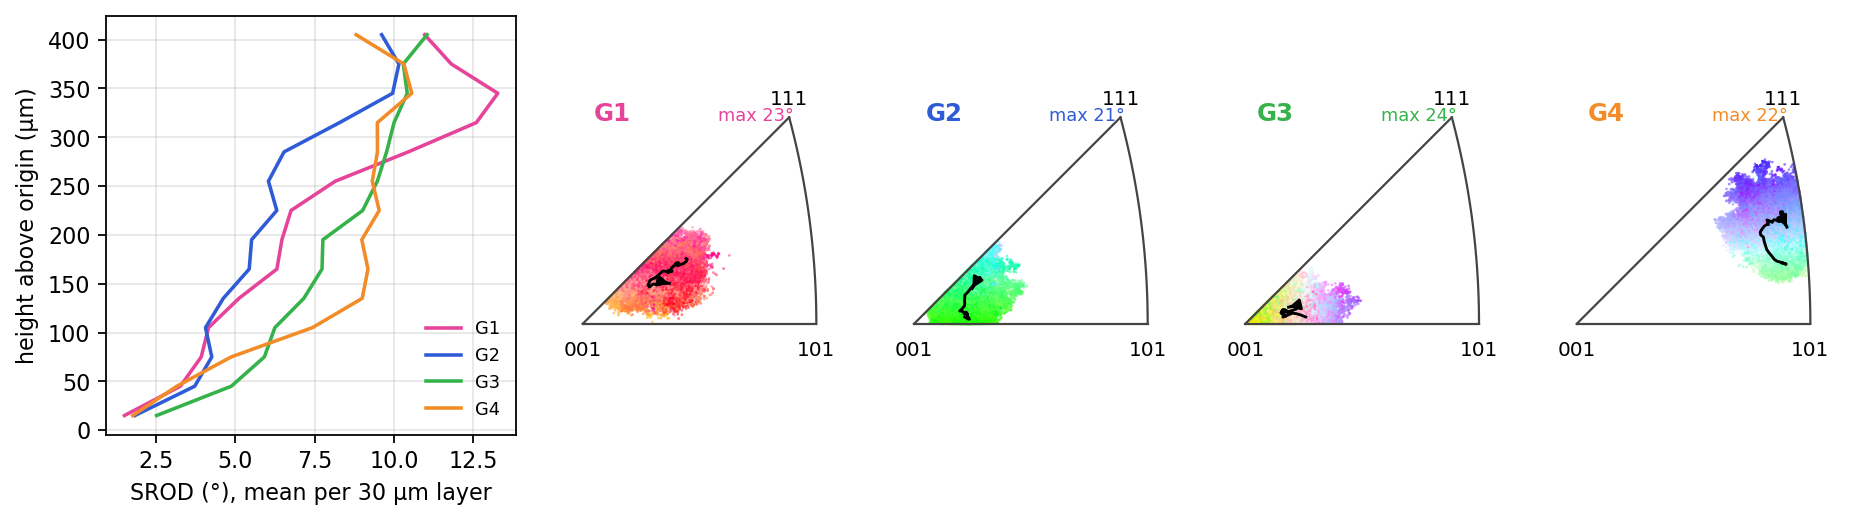
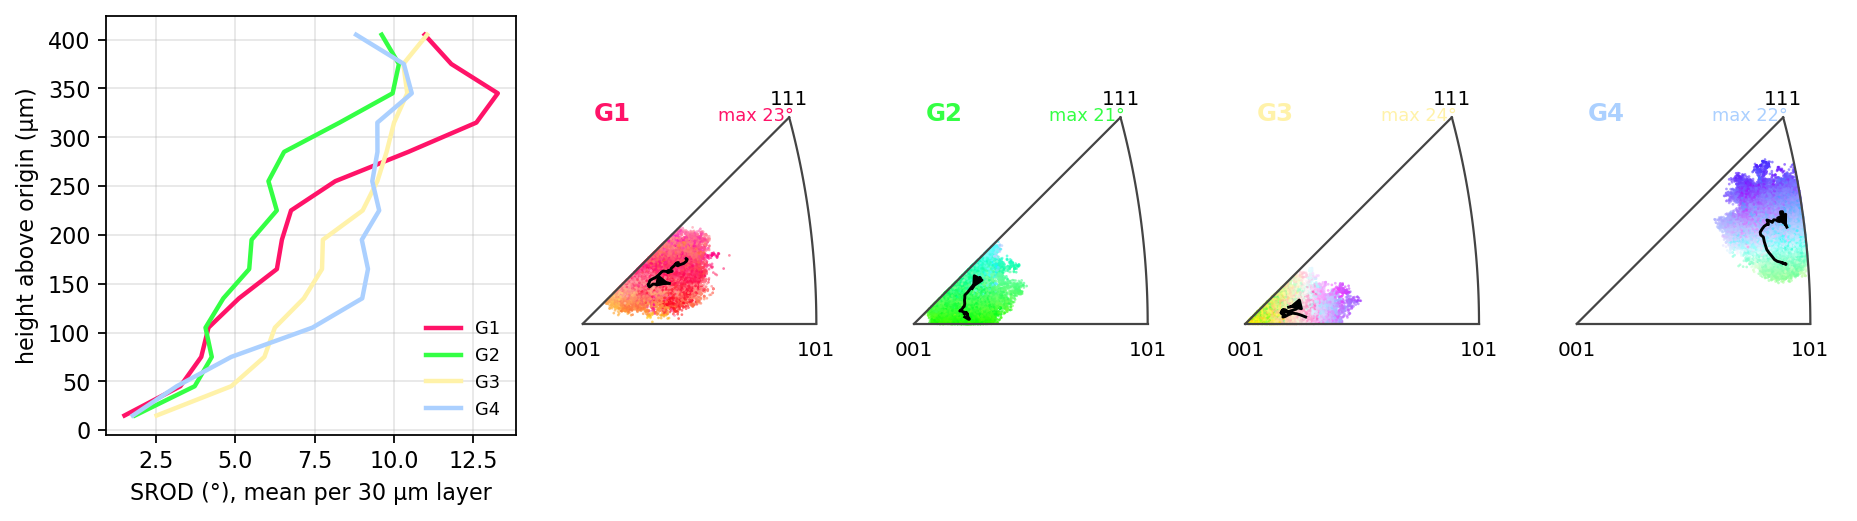
grain_paths Lamb-style figure: curves and labels in each grain's own IPF colour
Claude-Session: https://claude.ai/code/session_013BWm6NqRzuRuzuR1Dnx5hZ

diff --git a/examples/gp700_moser/grain_paths.py b/examples/gp700_moser/grain_paths.py
@@ -171,8 +171,9 @@ fig.tight_layout(); fig.savefig(f'{a.out}/grain_summary.png', dpi=140); print(f'
 
 # ---- Lamb 2024 Fig. 4(c,d) style for the N analysed grains: mean SROD per 30 um layer against height, and every voxel on the
 # build-direction IPF in its own IPF-Z colour with a black path (per-slab means, arrowhead at the top) -> grain_ipf_lamb.png
-LAMB_COL = ['#e6449a', '#2f5bd6', '#36b24a', '#f28c28', '#8a2b78', '#0075a9']
 picked = [g for g in allg[:a.n]]
+# curve and label colour = IPF-Z colour of the grain's mean orientation, as the clouds and maps (Lamb's labels match their grains)
+gcol = {g: tuple(np.clip(generate_ipf_colors(mean_q(q[lab == g])[None, :], 'fcc', 'z')[0], 0, 1)) for g in picked}
 fig = plt.figure(figsize=(3.6 + 2.6*len(picked), 3.4)); gs = fig.add_gridspec(1, 1 + len(picked), width_ratios=[1.4] + [1]*len(picked), wspace=0.12)
 axc = fig.add_subplot(gs[0, 0]); layer = 30.0
 for k, g in enumerate(picked):
@@ -182,7 +183,7 @@ for k, g in enumerate(picked):
     for lo in edges[:-1]:
         mm = (h >= lo) & (h < lo+layer)
         if mm.sum() >= 20: mids.append(lo + layer/2); means.append(srod[mm].mean())
-    axc.plot(means, mids, color=LAMB_COL[k % len(LAMB_COL)], lw=1.6, label=f'G{k+1}')
+    axc.plot(means, mids, color=gcol[g], lw=2.0, label=f'G{k+1}')
     axd = fig.add_subplot(gs[0, 1+k]); draw_triangle(axd)
     sub = np.random.default_rng(0).choice(len(qq), min(len(qq), 40000), replace=False)
     px, py = triangle_xy(bd_in_crystal(qq[sub])); rgb = generate_ipf_colors(qq[sub], 'fcc', 'z')
@@ -190,7 +191,7 @@ for k, g in enumerate(picked):
     pth = np.array(paths[g]) if g in paths and len(paths[g]) > 1 else None
     if pth is not None:
         axd.plot(pth[:,0], pth[:,1], color='k', lw=1.3); axd.annotate('', xy=pth[-1], xytext=pth[-2], arrowprops=dict(arrowstyle='-|>', color='k', lw=1.3, mutation_scale=10))
-    axd.text(0.02, 0.36, f'G{k+1}', color=LAMB_COL[k % len(LAMB_COL)], fontsize=11, fontweight='bold')
-    axd.text(0.24, 0.36, f'max {srod.max():.0f}°', color=LAMB_COL[k % len(LAMB_COL)], fontsize=8)
+    axd.text(0.02, 0.36, f'G{k+1}', color=gcol[g], fontsize=11, fontweight='bold')
+    axd.text(0.24, 0.36, f'max {srod.max():.0f}°', color=gcol[g], fontsize=8)
 axc.set_xlabel('SROD (°), mean per 30 µm layer'); axc.set_ylabel('height above origin (µm)'); axc.grid(alpha=0.3); axc.legend(fontsize=8, frameon=False, loc='lower right')
 fig.savefig(f'{a.out}/grain_ipf_lamb.png', dpi=160, bbox_inches='tight'); print(f'wrote {a.out}/grain_ipf_lamb.png')
